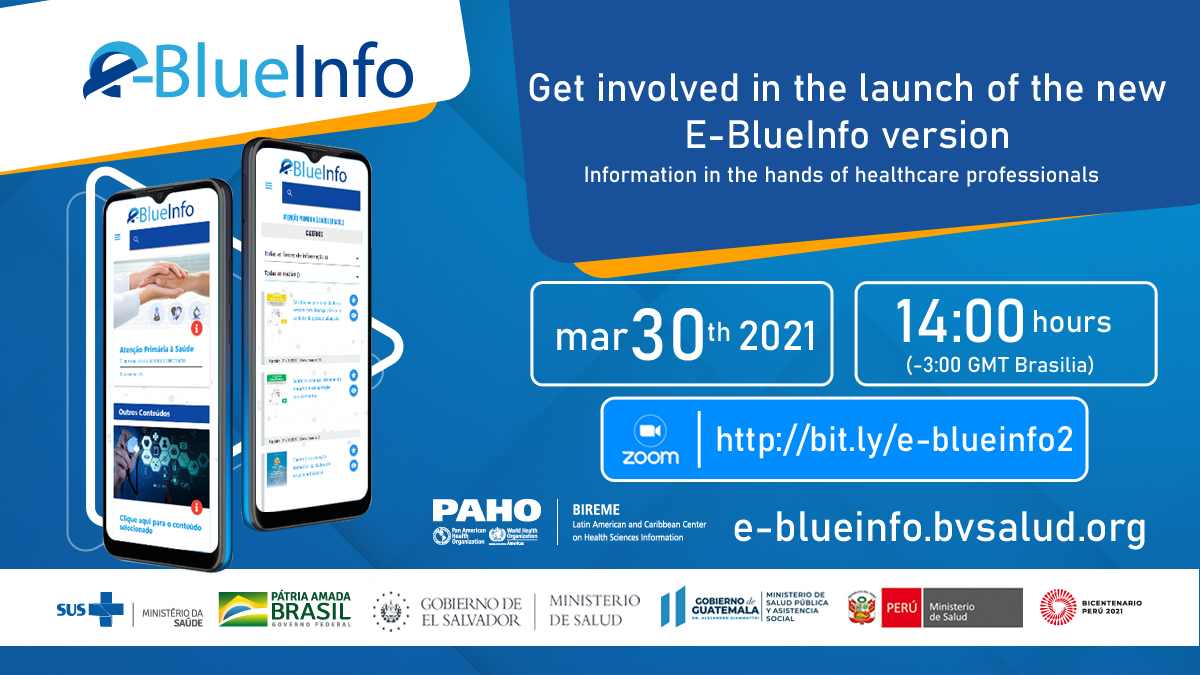
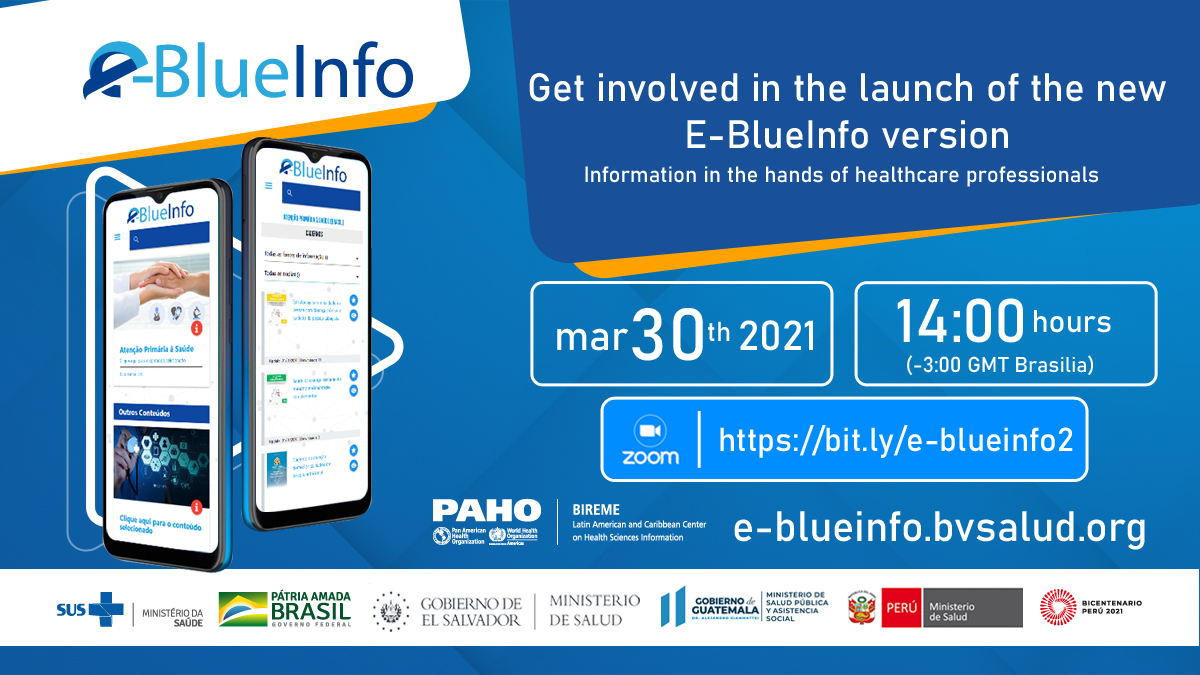
Ajuste Modal

Changed region(s): [[0.5858, 0.6222, 0.8942, 0.6844]]

diff --git a/e-BlueInfo/includes/banners.php b/e-BlueInfo/includes/banners.php
@@ -53,8 +53,13 @@
 				</button>
 			</div>
 			<div class="modal-body text-center">
+				
 				<img src="<?php bloginfo( 'template_directory' ) ?>/img/lancamentoH-<?php echo $idioma; ?>.jpg" alt="" class="img-fluid d-none d-md-block">
 				<img src="<?php bloginfo( 'template_directory' ) ?>/img/lancamento-<?php echo $idioma; ?>.jpg" alt="" class="img-fluid d-sm-block d-md-none">
+				
+			</div>
+			<div class="modal-footer">
+				<a href="https://bit.ly/e-blueinfo2" class="btn btn-lg btn-primary" target="_blank"><?php pll_e('Get involved'); ?> </a>
 			</div>
 		</div>
 	</div>

diff --git a/e-BlueInfo/functions.php b/e-BlueInfo/functions.php
@@ -102,6 +102,7 @@
 		pll_register_string('QR Code','Scan QR Code with Mobile', 'Modal');
 		pll_register_string('Store','Dados dos países participantes', 'Modal');
 		pll_register_string('Interested Countries','Interested Countries', 'Modal');
+		pll_register_string('Get involved', 'Get involved', 'Modal');
 		pll_register_string('Or if you prefer click here to access the store','Or if you prefer click here to access the store', 'Modal');
 		pll_register_string('Main content', 'Main content', 'Accessibility');
 		pll_register_string('Menu', 'Menu', 'Accessibility');
